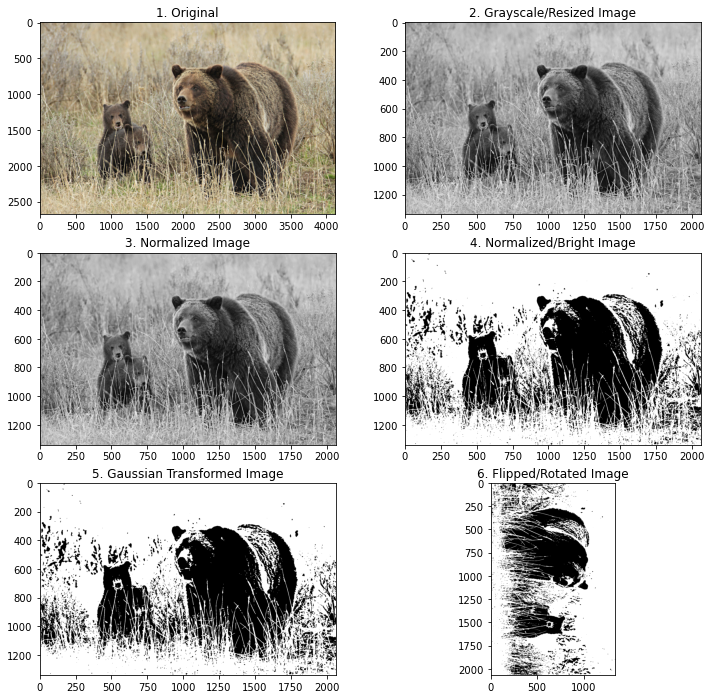
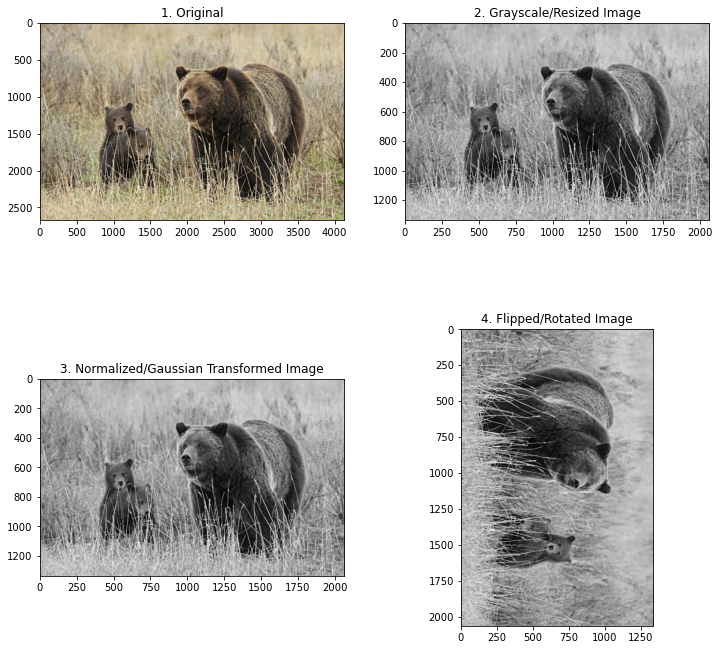
finalizing figure 1

diff --git a/imageanalysis.py b/imageanalysis.py
@@ -38,10 +38,6 @@ for item in pil_image_list:
     cv2_image_list.append(open_cv_image)
 
 # selecting a rendom image
-ran_img = random.choice(cv2_image_list)
-
-plt.imshow(ran_img)
-
 ran_img2 = random.choice(cv2_image_list)
 
 plt.imshow(ran_img2)
@@ -68,11 +64,11 @@ norm_image = (ran_img_resize - np.min(ran_img_resize)) / (np.max(ran_img_resize)
 plt.imshow(norm_image, cmap = "gray")
 
 # brightness increase
-ran_image_bright = cv2.convertScaleAbs(norm_image, alpha=1, beta=10)
-plt.imshow(ran_image_bright, cmap = "gray")
+#ran_image_bright = cv2.convertScaleAbs(norm_image, alpha=1, beta=10)
+#plt.imshow(ran_image_bright, cmap = "gray")
 
 # laplacian gaussian transform
-ran_img_transform = cv2.GaussianBlur(ran_image_bright,(5,5),0)
+ran_img_transform = cv2.GaussianBlur(norm_image,(5,5),0)
 plt.imshow(ran_img_transform, cmap = "gray")
 
 # flipped and rotated image
@@ -81,19 +77,15 @@ ran_img_flip = cv2.flip(ran_img_flip, 1)
 
 
 # plotting
-f, axes = plt.subplots(nrows = 3, ncols = 2, figsize=(12, 12))
+f, axes = plt.subplots(nrows = 2, ncols = 2, figsize=(12, 12))
 axes[0, 0].imshow(ran_img2)
 axes[0, 0].set_title('1. Original')
 axes[0, 1].imshow(ran_img_resize, cmap = "gray")
 axes[0, 1].set_title('2. Grayscale/Resized Image')
-axes[1, 0].imshow(norm_image, cmap = "gray")
-axes[1, 0].set_title('3. Normalized Image')
-axes[1, 1].imshow(ran_image_bright, cmap = "gray")
-axes[1, 1].set_title('4. Normalized/Bright Image')
-axes[2, 0].imshow(ran_img_transform, cmap = "gray")
-axes[2, 0].set_title('5. Gaussian Transformed Image')
-axes[2, 1].imshow(ran_img_flip, cmap = "gray")
-axes[2, 1].set_title('6. Flipped/Rotated Image')
+axes[1, 0].imshow(ran_img_transform, cmap = "gray")
+axes[1, 0].set_title('3. Normalized/Gaussian Transformed Image')
+axes[1, 1].imshow(ran_img_flip, cmap = "gray")
+axes[1, 1].set_title('4. Flipped/Rotated Image')
 
 
 

diff --git a/RenamingImages.py b/RenamingImages.py
@@ -8,7 +8,7 @@ Created on Wed Jun 22 21:54:03 2022
 
 import os
 
-root = "/Users/claregarberg/Documents/Graduate School/Summer 2022/Image Analytics/Project/Images"
+root = "/Users/claregarberg/Documents/Graduate School/Summer 2022/Image Analytics/ANLY677_FinalProject/Images"
 
 os.chdir(root)
 
